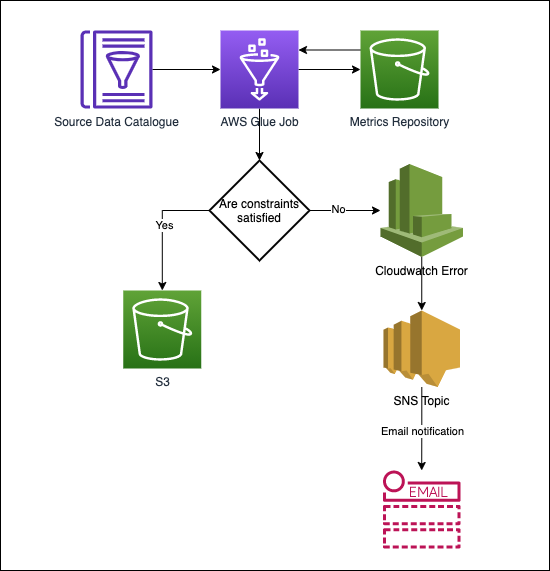
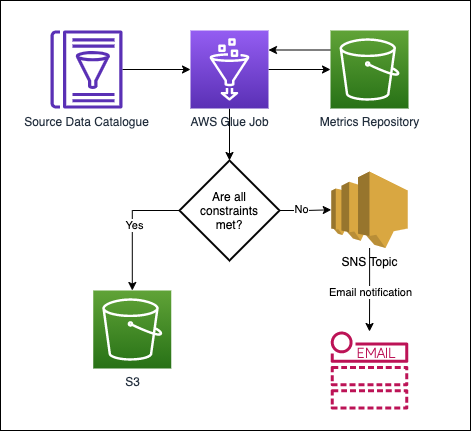
update diagram and clean up spike adr

diff --git a/docs/spikes/0007-data-quality-testing.md b/docs/spikes/0007-data-quality-testing.md
@@ -1,10 +1,8 @@
 ---
 title: "Data Quality Testing"
 description: "Testing data quality from Glue jobs"
-tags: adr
-number: "9"
-date-issued: "2021-08-16"
-status: "Accepted"
+tags:
+layout: layout
 ---
 
 ## Context
@@ -15,22 +13,21 @@ The Data Platform currently does not have a way to test the data quality of the 
 
 ![Data Quality Testing](./images/data-quality-testing.png)
 
-Use a Python module; PyDeequ to calculate metrics on data, 
-verify suggested data quality constraints as well as define 
-custom constraints. 
+Use a Python module; [PyDeequ](https://github.com/awslabs/python-deequ). 
+PyDeequ enables you to calculate and track changes of metrics 
+on a dataset, define custom constraints and/or use automated 
+constraint suggestions to test the quality of a dataset.  
 Datasets being consumed by a Glue job will be analysed to produce
-Metrics, which will be stored in a Metrics Repository in the respective 
-S3 location of the dataset.
-At each Glue job run, the suggested and custom constraints 
-will be compared against the latest metrics from the Metrics
-Repository in S3. 
-If there are no results outside of the set constraints
+metrics (profile of the data), which will be stored in a Metrics Repository 
+in the respective S3 location of the dataset.
+At each Glue job run, the defined constraints will be compared 
+against the latest metrics from the respective Metrics Repository in S3. 
+If there are no anomalies in regards to the defined constraints,
 then the Glue job will proceed as normal and write the output to 
 its target S3 location.
-If there are any anomalies, then Glue job fails, and an error
-will be thrown which is logged in the job's Cloudwatch error logs. 
-An SNS topic will watch for Cloudwatch Errors and notify an email 
-recipient of the error.
+If there are any anomalies, then Glue job fails, and the constraint 
+error message is published as an SNS notification to an email
+recipient, notifying them of the error.
 
 ## Considerations
 
@@ -46,7 +43,7 @@ is not changed)
 ## Consequences
 
 - Users will have confidence that the data being consumed as a result of a Glue job
-is of high quality. 
-- If there are any anomalies, then users will be notified via email, and the Glue job
-is stopped to prevent passing on data that does not meet the specified constraints to 
-other Glue jobs or Business Intelligence tools.
+is of high quality and can be trusted. 
+- If there are any anomalies, then users will be notified via email, so that the issue
+can be investigated. Consequently, the Glue job is stopped to prevent passing on the data 
+that does not meet the specified constraints to other Glue jobs or Business Intelligence tools.
